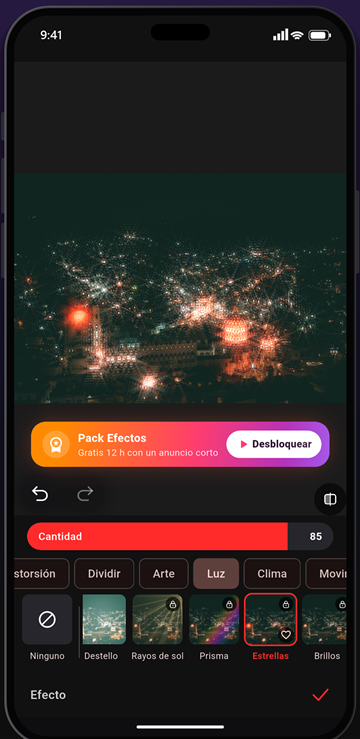
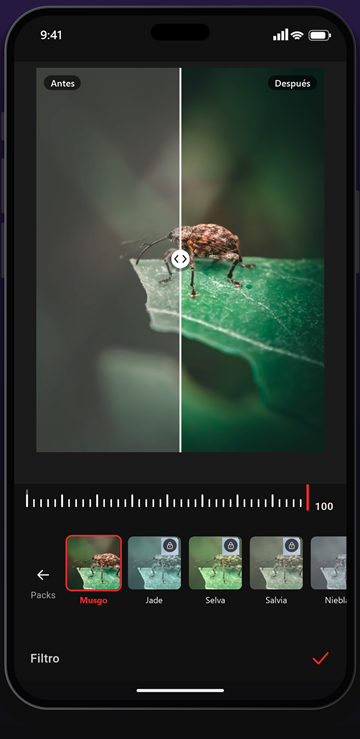
Página de testers: muestra con el filtro del insecto

diff --git a/testers.html b/testers.html
@@ -127,7 +127,7 @@
         Play Store, Google necesita confirmar que personas reales ya lo usaron: los testers. Unirte toma un par de
         minutos.</p>
     </div>
-    <img class="telefono" src="testers-app.png" alt="Opsira aplicando un efecto a una foto de noche">
+    <img class="telefono" src="testers-app.png" alt="Opsira comparando antes y después de un filtro en la foto de un insecto">
   </div>
 
   <div class="etiquetas"><span>Gratis</span><span>Sin suscripciones</span><span>Sin marca de agua</span><span>Solo Android</span></div>
